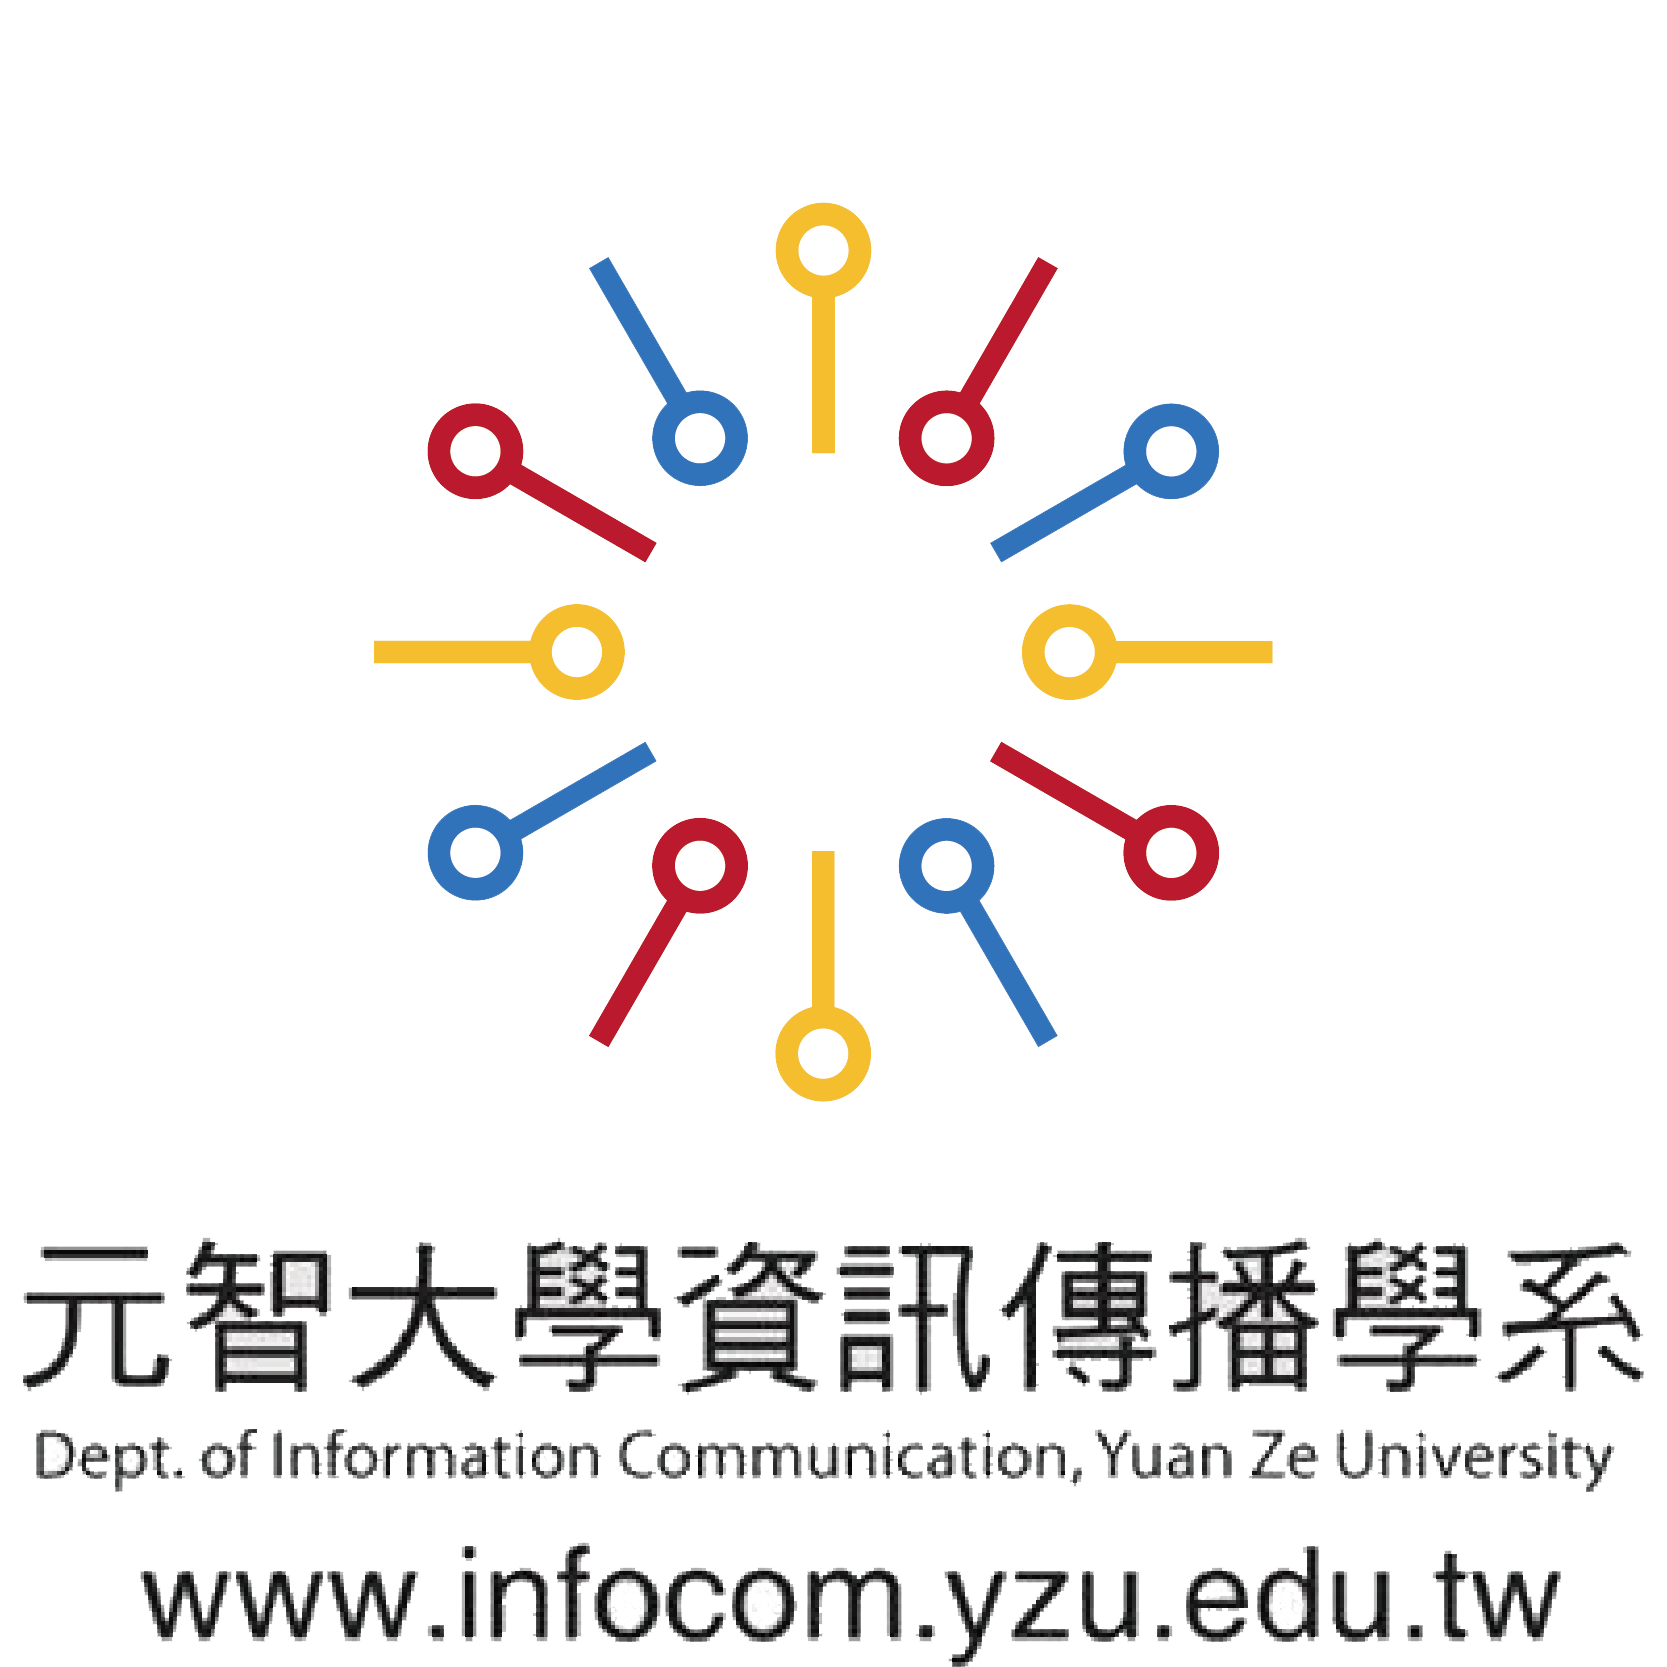
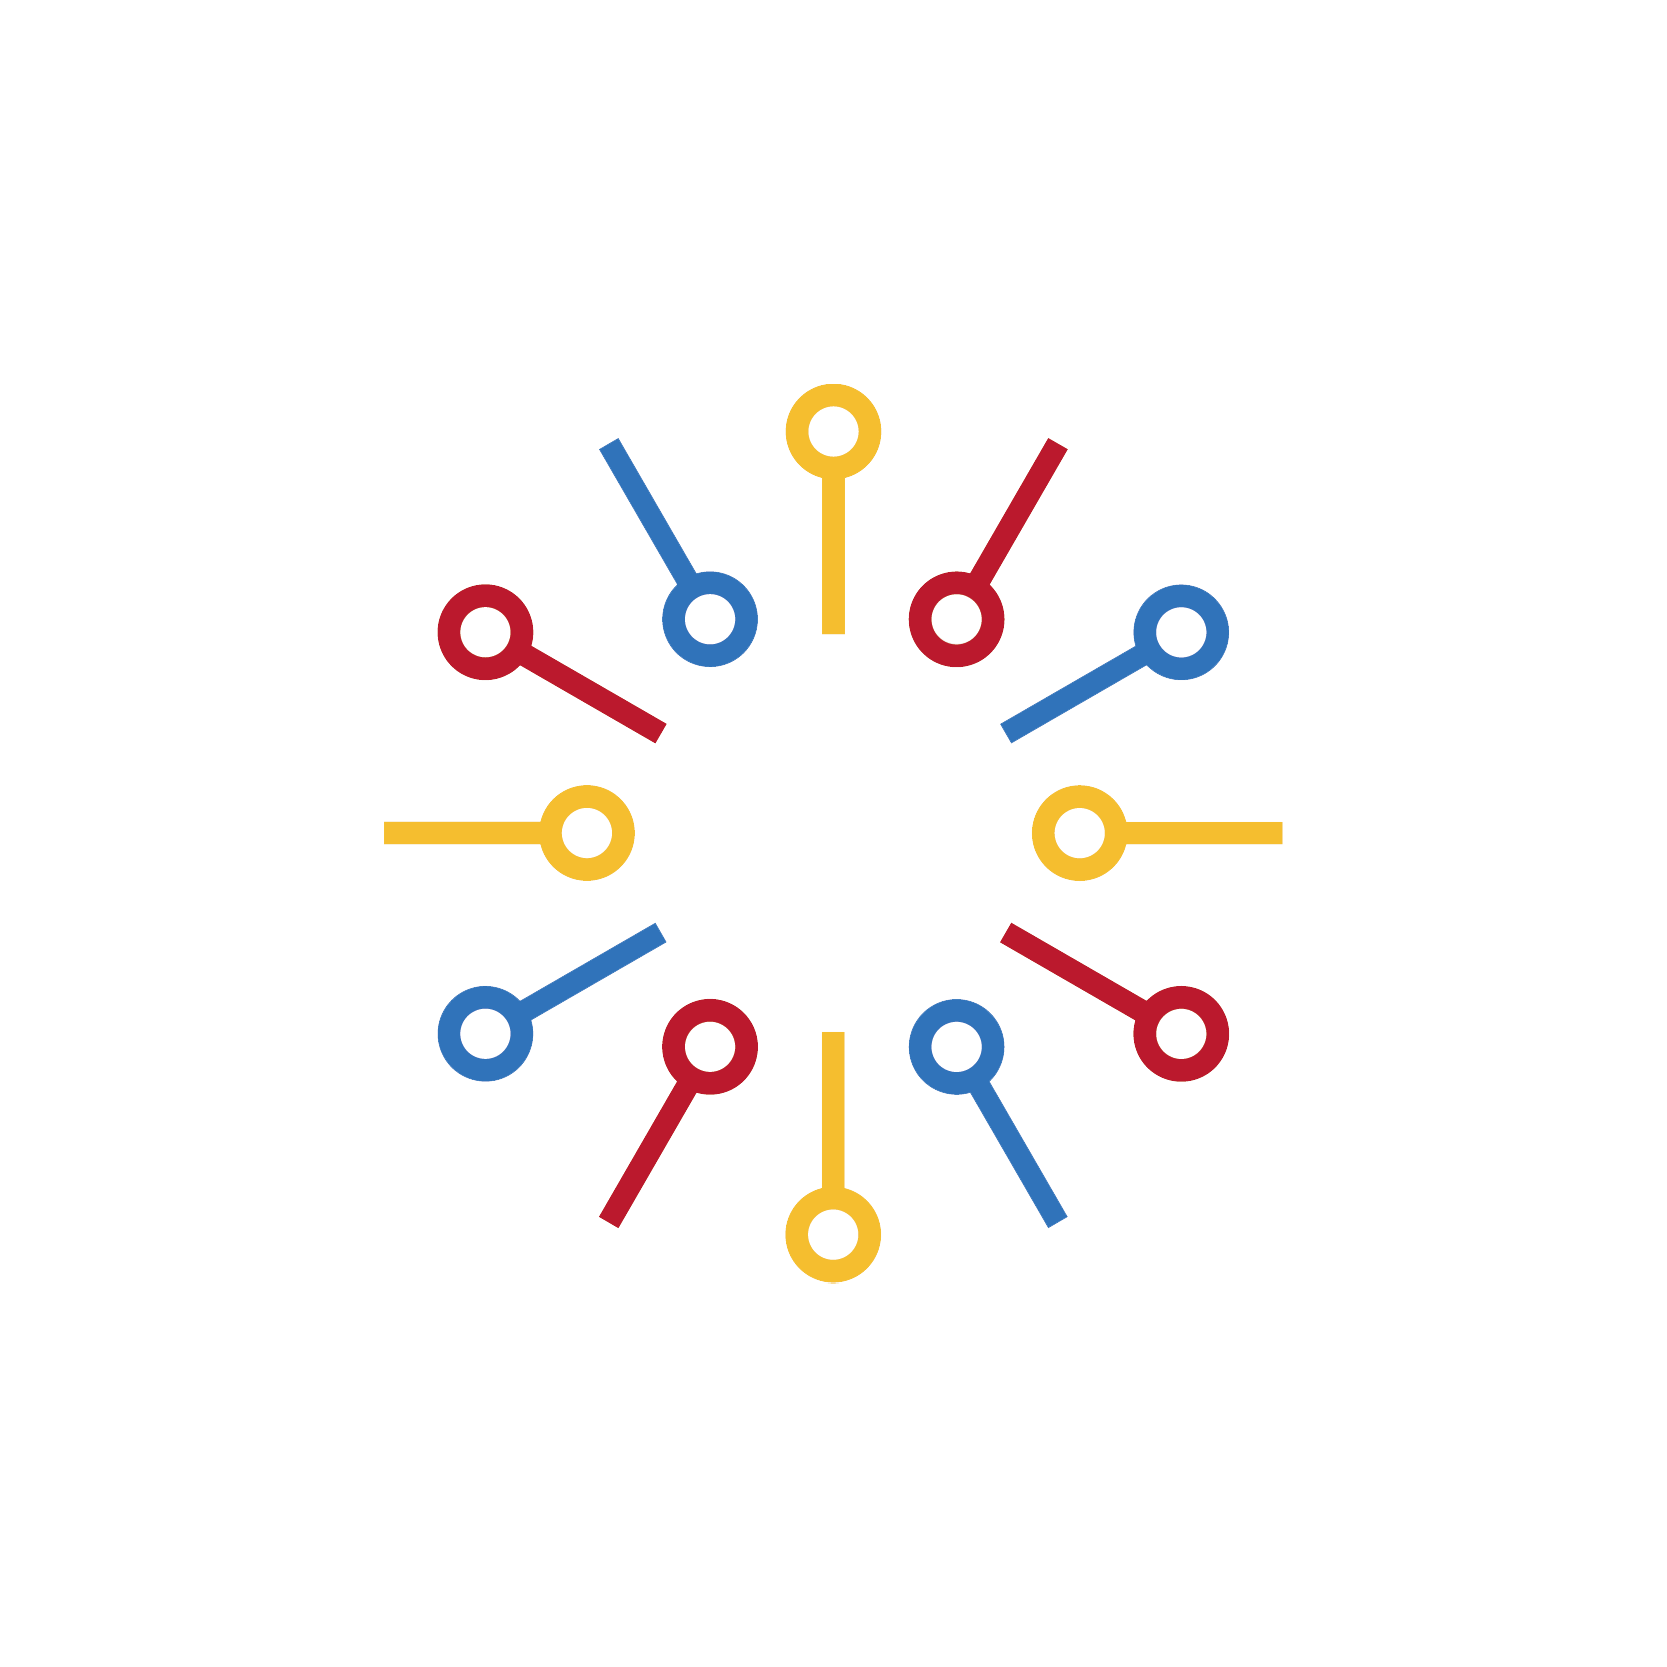
0629 19:36

diff --git a/index.html b/index.html
@@ -34,7 +34,8 @@
     </div>
   </nav>
   <div id="nav_1">
-    <img src="yzuic.png" alt="" style="width: 250px; display:block; margin:auto;">
+    <img src="yzuic_logo.png" alt="" style="width: 250px; display:block; margin:auto;">
+    <h1 style="text-align:center">元智大學資訊傳播學系</h1>
     <figure style="text-align:center;margin-top:3%;">
       <blockquote class="blockquote">
         <p class="h2">程式設計專題發表</p>
@@ -76,25 +77,6 @@
       </div>
     </div>
   </div>
-  <!--    <div class="flowplane">
-      <div class="content">
-        <img src="flow_chart.png" alt="" class="flowimg img-fluid">
-      </div>
-      <button type="button" class="btn-close flowcancel" aria-label="Close"></button>
-    </div>
-    <div class="principleplane">
-      <div class="content">
-        <p class="principletext">
-          透過將圖像灰階化之後利用程式將圖片的像素值轉換為文字符號，再透過程式進行畫面的輸出。
-        </p>
-      </div>
-      <button type="button" class="btn-close principlecancel" aria-label="Close"></button>
-    </div>
-    <button type="text" class="btn btn-outline-success flow">設計概念流程圖</button>
-    <button type="button" class="btn btn-outline-success principle">專題原理</button>
--->
-
-
   <script src="students.txt"></script>
   <script>
     show_gallery()

diff --git a/index.css b/index.css
@@ -5,6 +5,7 @@ body {
 #yzu_img {
     width: 400px;
     margin: 0 auto;
+    margin-top: 20px;
 }
 
 .back_to_top{
